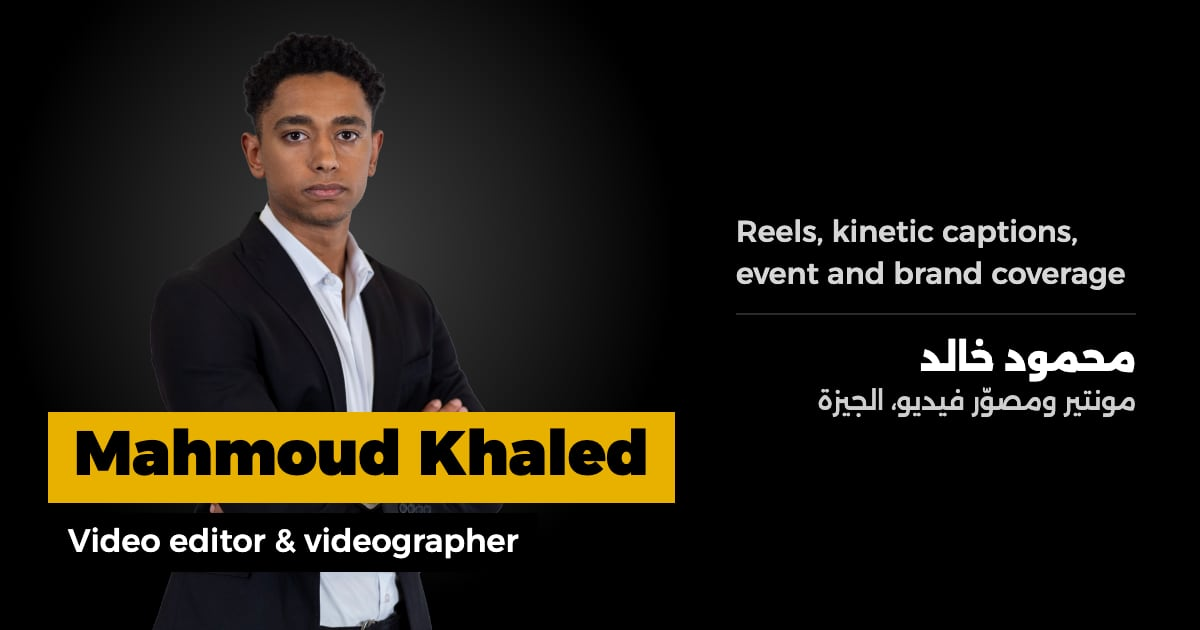
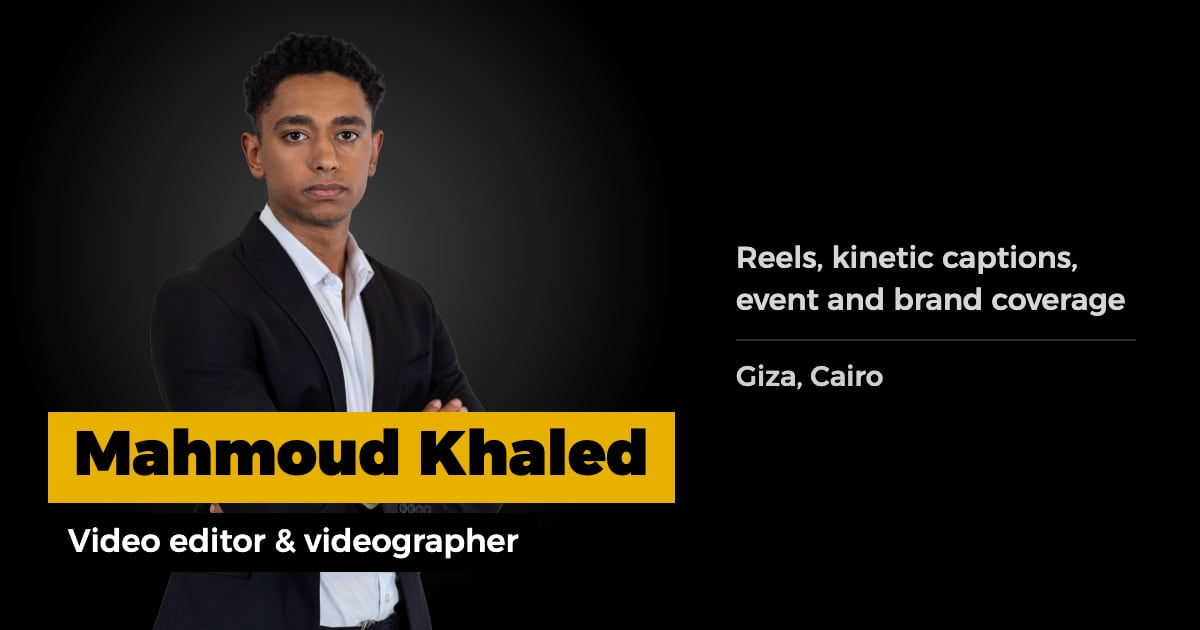
Keep each link preview in its page's language only
The English cards carried his Arabic name and role, and the Arabic ones
his English name. Each card and name label is now in one language, a
test fails on any letter of the other, and the home cards' addresses
change with their content so apps fetch the new picture.

Changed region(s): [[0.6167, 0.3317, 0.9558, 0.6635]]

diff --git a/site/brand/templates/og-home.html b/site/brand/templates/og-home.html
@@ -57,19 +57,6 @@
         gap: 18px;
         color: var(--white);
       }
-      .side .en {
-        font-size: 40px;
-        font-weight: 800;
-        line-height: 1.2;
-        direction: ltr;
-      }
-      .side .en small {
-        display: block;
-        margin-top: 8px;
-        color: #cfcfcf;
-        font-size: 28px;
-        font-weight: 500;
-      }
       .side .lead {
         color: #d6d6d6;
         font-size: 30px;
@@ -78,17 +65,9 @@
         direction: rtl;
         text-align: right;
       }
-      .side .ar {
-        font-size: 36px;
-        font-weight: 800;
-        line-height: 1.4;
-        direction: rtl;
-        text-align: right;
-      }
-      .side .ar small {
-        display: block;
+      .side .place {
         color: #cfcfcf;
-        font-size: 26px;
+        font-size: 28px;
         font-weight: 500;
       }
       .side .lead-en {
@@ -98,7 +77,7 @@
         line-height: 1.4;
         direction: ltr;
       }
-      /* ?en: the English page's card, his English name in the lower third. */
+      /* ?en: the English pages' card. Each card is in its page's language only. */
       .third[dir='ltr'] .name {
         padding: 6px 26px 14px;
         font-size: 62px;
@@ -124,7 +103,7 @@
     <div class="side">
       <p class="lead">مونتاج ريلز، كتابة متحركة، تغطية فعاليات وبراندات</p>
       <hr />
-      <p class="en">Mahmoud Khaled<small>Video editor &amp; videographer, Giza</small></p>
+      <p class="place" dir="rtl">الجيزة، القاهرة</p>
     </div>
     <script>
       if (location.search === '?en') {
@@ -132,7 +111,7 @@
         document.querySelector('.third').outerHTML =
           '<div class="third" dir="ltr"><div class="name">Mahmoud Khaled</div><div class="role">Video editor &amp; videographer</div></div>';
         document.querySelector('.side').innerHTML =
-          '<p class="lead-en">Reels, kinetic captions, event and brand coverage</p><hr /><p class="ar" lang="ar">محمود خالد<small>مونتير ومصوّر فيديو، الجيزة</small></p>';
+          '<p class="lead-en">Reels, kinetic captions, event and brand coverage</p><hr /><p class="place">Giza, Cairo</p>';
       }
     </script>
   </body>

diff --git a/tests/unit/brand-text.test.ts b/tests/unit/brand-text.test.ts
@@ -1,0 +1,36 @@
+import { resolve } from 'node:path';
+import { pathToFileURL } from 'node:url';
+import { chromium, type Browser } from '@playwright/test';
+import { afterAll, beforeAll, describe, expect, it } from 'vitest';
+
+let browser: Browser;
+beforeAll(async () => {
+  browser = await chromium.launch({ args: ['--allow-file-access-from-files'] });
+});
+afterAll(async () => {
+  await browser?.close();
+});
+
+const text = async (template: string, query: string): Promise<string> => {
+  const page = await browser.newPage();
+  await page.goto(pathToFileURL(resolve('site/brand/templates', template)).href + query);
+  const shown = await page.evaluate(() => document.body.innerText);
+  await page.close();
+  return shown;
+};
+
+describe('the Arabic pages’ link previews (npm run brand)', () => {
+  it.each(['og-home.html', 'wordmark.html'])('%s has no English letters, only Arabic', async (template) => {
+    const shown = await text(template, '');
+    expect(shown).toContain('محمود خالد');
+    expect(shown).not.toMatch(/[A-Za-z]/);
+  });
+});
+
+describe('the English pages’ link previews (npm run brand)', () => {
+  it.each(['og-home.html', 'wordmark.html'])('%s?en has no Arabic letters, only English', async (template) => {
+    const shown = await text(template, '?en');
+    expect(shown).toContain('Mahmoud Khaled');
+    expect(shown).not.toMatch(/[-ۿ]/);
+  });
+});

diff --git a/site/brand/templates/wordmark.html b/site/brand/templates/wordmark.html
@@ -18,7 +18,7 @@
         border-radius: 22px;
         background: rgba(0, 0, 0, 0.84);
       }
-      /* The page language's name in the gold pill, the other under it (?en: English first). */
+      /* His name in the gold pill, in the page's language only: Arabic, or ?en for the English pages. */
       .pill {
         padding: 0 14px 6px;
         border-radius: 999px;
@@ -31,19 +31,13 @@
       .pill[lang='en'] {
         padding: 2px 16px 6px;
       }
-      .sub {
-        padding-inline-start: 4px;
-        color: var(--white);
-        font-size: 22px;
-        font-weight: 600;
-      }
     </style>
   </head>
   <body>
-    <div id="mark"><span class="pill" lang="ar" dir="rtl">محمود خالد</span><span class="sub" lang="en">Mahmoud Khaled</span></div>
+    <div id="mark"><span class="pill" lang="ar" dir="rtl">محمود خالد</span></div>
     <script>
       if (location.search === '?en') {
-        document.getElementById('mark').innerHTML = '<span class="pill" lang="en">Mahmoud Khaled</span><span class="sub" lang="ar" dir="rtl">محمود خالد</span>';
+        document.getElementById('mark').innerHTML = '<span class="pill" lang="en">Mahmoud Khaled</span>';
       }
     </script>
   </body>

diff --git a/src/lib/site.ts b/src/lib/site.ts
@@ -1,3 +1,5 @@
+import { createHash } from 'node:crypto';
+import { readFileSync } from 'node:fs';
 import { absoluteUrl, pagePath, withBase, type Lang } from './urls.ts';
 
 // Astro fills these from `base` and `site` in astro.config.ts (BASE_PATH / SITE_URL at build time).
@@ -10,5 +12,11 @@ export const href = (path: string): string => withBase(path, BASE);
 export const abs = (path: string): string => absoluteUrl(path, SITE, BASE);
 export const pageHref = (lang: Lang, slug?: string): string => href(pagePath(lang, slug));
 export const pageAbs = (lang: Lang, slug?: string): string => abs(pagePath(lang, slug));
+/**
+ * Absolute URL of a file in public/ that keeps its name (a home card), versioned by its content: apps
+ * that cached the old picture under the plain address fetch the new one.
+ */
+export const absVersioned = (file: string): string =>
+  `${abs(file)}?v=${createHash('sha256').update(readFileSync(`public/${file}`)).digest('hex').slice(0, 10)}`;
 export const otherLang = (lang: Lang): Lang => (lang === 'ar' ? 'en' : 'ar');
 export const dirOf = (lang: Lang): 'rtl' | 'ltr' => (lang === 'ar' ? 'rtl' : 'ltr');

diff --git a/tests/e2e/seo.spec.ts b/tests/e2e/seo.spec.ts
@@ -13,7 +13,8 @@ for (const [lang, path, card] of [
   test(`the ${lang} home page previews with its own card and tells search engines whose site it is`, async ({ page, request, baseURL }) => {
     await page.goto(path);
     const image = await page.locator('meta[property="og:image"]').getAttribute('content');
-    expect(image).toBe(new URL(card, baseURL).href);
+    // Versioned by content, so an app that cached an older card fetches the new one.
+    expect(image).toMatch(new RegExp(`^${new URL(card, baseURL).href.replace(/\./g, '\\.')}\\?v=[0-9a-f]{10}$`));
     expect((await request.get(image!)).status()).toBe(200);
     await expect(page.locator('meta[name="twitter:image"]')).toHaveAttribute('content', image!);
 
